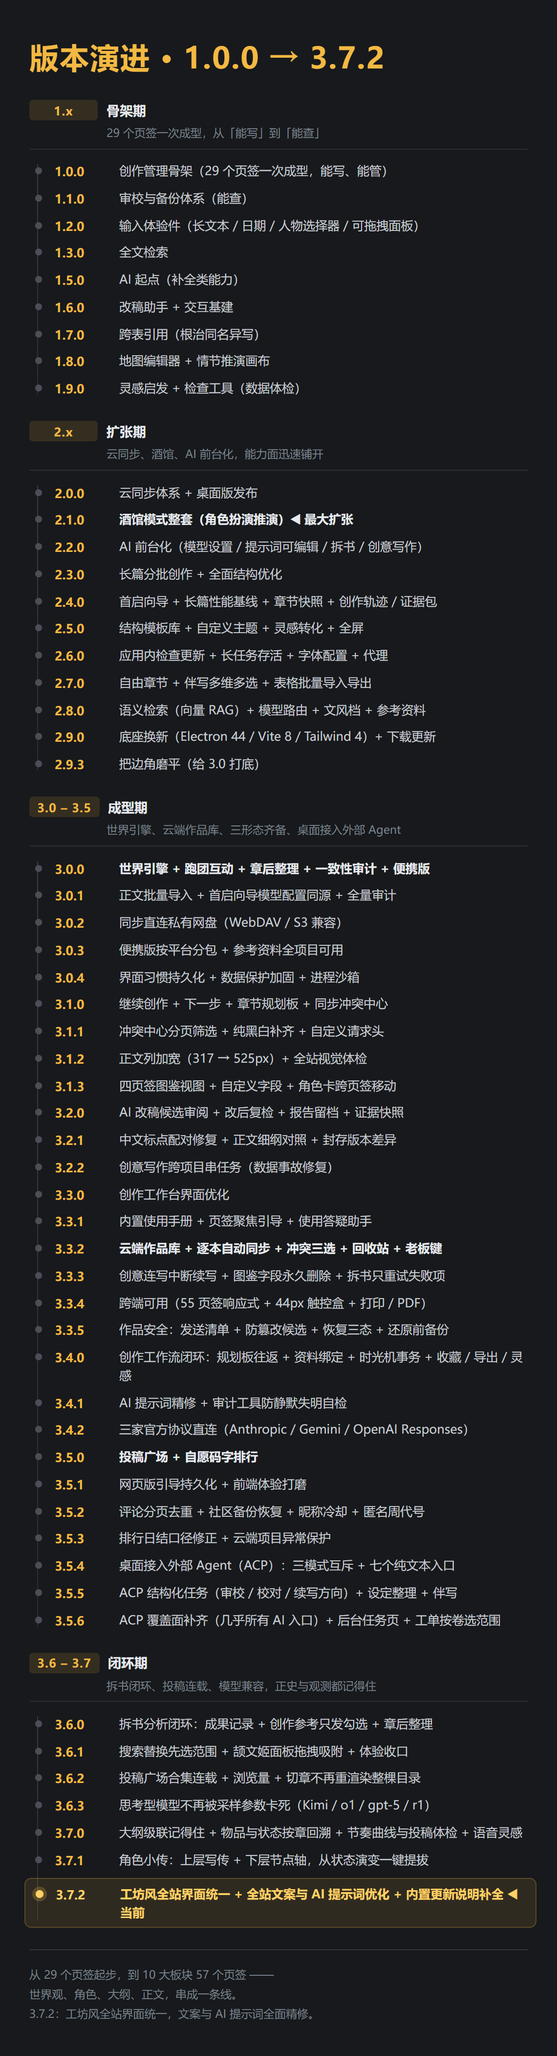
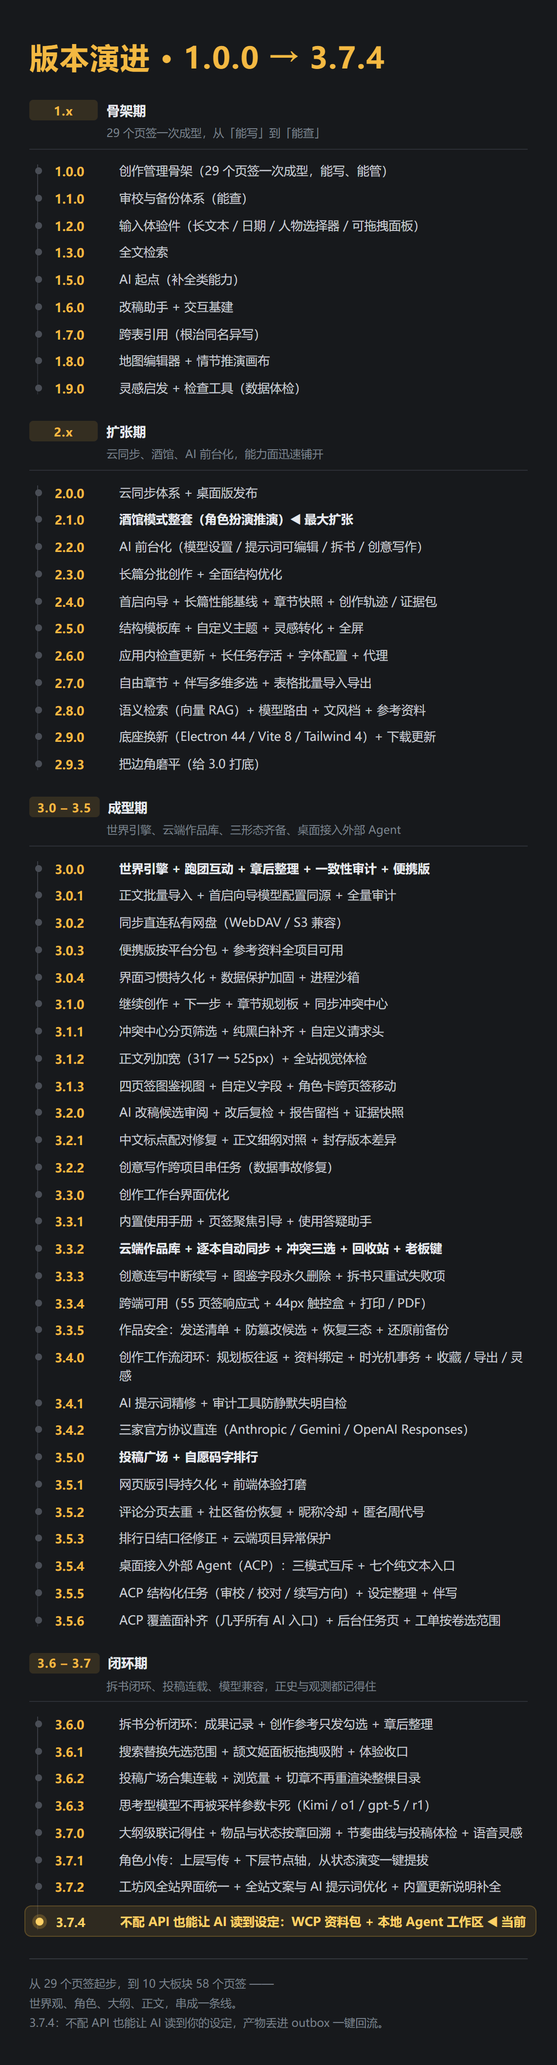
docs(3.7.4): 手册补 3.7.4 版本变化篇，版本变化篇统一出口，README/更新说明/配图升到 3.7.4
【软件内接收更新说明】（本次重点）
- 新增 `version-374.ts`（whats-new-374）：WCP 资料包三档、回流逐条勾选、桌面版本地
  Agent 工作区、outbox 回流、网页/便携降级 zip，以及首页重排与原子写；
- 新增 `version-index.ts` 的 `ALL_VERSION_NOTES` 作为**唯一出口**：registry（手册检索）
  与 AboutPage（「近期版本更新说明」弹窗）共用一份聚合，避免两处各拼一遍时漏篇；
- registry / AboutPage 同步改为读 ALL_VERSION_NOTES；`CONTENT_VERSION` 35 → 36。
- 探针核对：5 篇（370→371→372→373→374），关于页倒序展示 374 在最上。

【文档与配图】
- 新增 `docs/归档/3.7/3.7.4-更新说明-2026-11-26.md`（同时作 Release 正文），
  交代「3.7.3 未单独发布、内容随本版一并交付」；
- README：版本号 / 顶部主线 / 值得一提的设计 / 升级说明 / 版本演进表 +1 行 /
  本版重点整节换成 3.7.4（5 条 ⭐ + 验证 📌，写实 530/530 与未覆盖项）；
- 演进图 rows 补 3.7.2 与 3.7.4（3.7.3 未发布不加）、标题改 → 3.7.4、页脚改 58 页签。

门禁：tsc 0 / eslint 0 / 全量 **530/530** / release-check 源码 FAIL 0

diff --git a/src/lib/help/articles/version-374.ts b/src/lib/help/articles/version-374.ts
@@ -1,0 +1,80 @@
+// ============ 手册内容 · 3.7.4 版本变化（2026-11-26） ============
+//
+// 单独成文件，避免 version.ts 越过「纯字面量文件 200 行」的结构闸阈值。
+//
+// 🔴 版本关系：3.7.3（网页资料包 WCP）在开发期完成、**没有单独发过版**（无 tag），
+//    从 3.7.2 升上来的用户是在 3.7.4 一次性拿到两批能力。手册里 3.7.3 那篇（version-373.ts）
+//    已存在且照常展示，本篇只补 3.7.4 的增量，并在第一节交代「网页资料包随本版首次交付」。
+import type { HelpArticle } from '@/lib/help/types'
+
+export const VERSION_374_ARTICLES: HelpArticle[] = [
+  {
+    id: 'whats-new-374',
+    revision: 1,
+    title: '3.7.4：不用 API 也能让 AI 读到你的设定',
+    summary: '新增第 4 种接力模式 WCP：把设定、角色、细纲与前文打包给网页版 AI，回复粘回来逐条入库；桌面版还能把这套资料写成本地文件夹，交给 Claude Code / Cursor 这类本地 Agent 直接读。',
+    aliases: ['更新说明', '新功能', '3.7.4', 'WCP', '资料包', '本地工作区'],
+    keywords: ['3.7.4', 'WCP', '资料包', '本地工作区', 'outbox', '底包', '增量包', '双段输出', '网页模型', '本地 Agent'],
+    group: '快速开始',
+    tabIds: ['model-settings', 'editor', 'chapter-outline', 'check-tools', 'char-bio'],
+    availability: 'all',
+    aiRequirement: 'none',
+    sections: [
+      {
+        id: 'web-pack',
+        heading: '网页资料包：随本版首次交付（3.7.3 完成）',
+        body: [
+          '「模型设置 → 运行模式」在 API / MCP / ACP 之外多了第 4 个页签 **WCP**。它不占用后台在线模式：后台连着 ACP 或 API 时，WCP 页签照样能用，两者互不干扰。',
+          '资料包分三档：**底包**只装长期设定（作品概览、世界设定、势力地理、核心角色、人物关系、小传、写作规范、名词术语，外加文风与去 AI 味规则）；**增量包**装当前这一章要用的东西（细纲、前文摘要与末尾正文、本章草稿、出场角色当前状态、物品持有、未回收伏笔）；**完整包**是两者合并。',
+          '入口就在你要用的地方：正文工具栏「WCP 接力」、细纲页头「WCP 推演包」、检查工具页头「WCP 找茬包」（只找问题，不评分不排名）、角色小传页头「WCP 小传包」。它逐条怎么用，见手册里 3.7.3 那条说明。',
+        ],
+      },
+      {
+        id: 'paste-back',
+        heading: 'AI 的回复怎么拿回来',
+        body: [
+          '把 AI 的回复整段粘回「WCP 回流」：它按 `<<<WCP_BODY_START>>>` / `<<<WCP_CHANGES_START>>>` 切成「正文」与「变动摘要」两段，缺标记时会退化为按 `## 第一部分` / `## 变动摘要` 识别。',
+          '正文可以一键入章；变动摘要里的候选（伏笔、关系、状态、物品、小传）逐条勾选后才入库，走的是和章后整理同一套写入口 —— **只追加、不覆盖**，没登记的角色或物品不会凭空造出来。',
+          'AI 返回的 JSON 不完整时，正文部分不会丢：整段按正文保留，并给一个「换成 Markdown 清单」的开关重新解析。',
+        ],
+      },
+      {
+        id: 'local-workspace',
+        heading: '桌面版：写成本地文件夹给 Agent 读',
+        body: [
+          '桌面版多了一步：把这套资料按模块**写成一个个文件**放到本地目录（默认在数据文件同级的 `wcp-workspaces/<书名>-<项目号前6位>/`，可以自己改，也能一键恢复默认）。目录里有 `AGENTS.md`、`CLAUDE.md` 和 `manifest.json` 索引，Agent 按需读文件，不必把整包塞进对话，省上下文也少「中间遗忘」。',
+          '页面提供「复制启动提示词」，里面带着工作区的绝对路径，粘给 Claude Code、OpenAI Codex、Cursor、Windsurf、Antigravity、Cline 这类本地 Agent 就能开工。',
+          '工作区的保鲜：打开软件或打开项目时如果资料过期会提醒；也可以手动一键更新，或开定时刷新。更新**只覆写变化的文件**（临时文件写完再改名，不会让 Agent 读到半截），不留历史副本、不占额外备份空间，也绝不碰 `outbox/`。',
+          '如果要让 Agent 翻前文，可以打开「同步全书历史章节」（出厂关闭）——开了它会额外生成分卷分章的只读正文目录。',
+        ],
+      },
+      {
+        id: 'outbox',
+        heading: 'Agent 的产出怎么回来：outbox',
+        body: [
+          'Agent 把结果写成 `.wcp.json` 或 `.md` 丢进工作区的 `outbox/` 文件夹，回到软件点「扫描 outbox」就能一键核对入库。',
+          '成功导入的文件默认**成对移入 `outbox/imported/`** 归档，防止同一份结果被重复导入；不需要自动归档可以在设置里关掉。',
+        ],
+      },
+      {
+        id: 'fallback',
+        heading: '网页版 / 便携版怎么办',
+        body: [
+          '没有本地任意写盘权限的形态（网页版、便携版）会降级为**导出同样目录结构的 zip 工作区包**：解压后就是同一个文件夹结构，照样能交给本地 Agent 用，不需要 API Key。',
+        ],
+      },
+      {
+        id: 'fixes',
+        heading: '顺带改的',
+        body: [
+          '项目中心（首页）重新排过：常用入口与最近项目的位置更集中，窄窗口下也不挤。登录页与重置密码页恢复默认的护眼主题，不再跟随暗色。',
+          '数据写入改成原子写（先写临时文件、落盘成功再改名），中途失败不会留下半截文件；同时处理了一批审计提示级问题。',
+        ],
+      },
+    ],
+    related: ['wcp-relay'],
+    actions: [{ label: '打开模型设置', tabId: 'model-settings' }],
+    verifiedAgainst: '3.7.4',
+    reviewedAt: '2026-11-26',
+  },
+]

diff --git a/src/lib/help/registry.ts b/src/lib/help/registry.ts
@@ -23,7 +23,7 @@ import { TOOLS_ARTICLES } from '@/lib/help/articles/tools'
 import { TOOLS_EXTRA_ARTICLES } from '@/lib/help/articles/tools-extra'
 import { TAVERN_ARTICLES } from '@/lib/help/articles/tavern'
 import { MISC_PAGE_ARTICLES } from '@/lib/help/articles/misc-pages'
-import { VERSION_ARTICLES } from '@/lib/help/articles/version'
+import { ALL_VERSION_NOTES } from '@/lib/help/articles/version-index'
 import { AGENT_BACKEND_ARTICLES } from '@/lib/help/articles/agent-backend'
 import { PLOT_ARTICLES } from '@/lib/help/articles/plot'
 import { ARTEFACT_ARTICLES } from '@/lib/help/articles/artefacts'
@@ -32,7 +32,9 @@ import { WCP_ARTICLES } from '@/lib/help/articles/wcp'
 
 /** 整套内容的版本：正文、目录、索引必须同版本，否则来源引用不可信 */
 // 35（2026-11-26 · 3.7.4）：新增「本地 Agent 工作区（WCP-Local）」使用篇。
-export const CONTENT_VERSION = 35
+// 36（2026-11-26 · 3.7.4 发布）：新增 whats-new-374，并把版本变化篇统一从
+//   version-index.ts 出口 —— 手册与关于页共用一份聚合，避免两处各拼一遍时漏篇。
+export const CONTENT_VERSION = 36
 
 /** 这套内容核对时对应的软件版本 */
 export const SUPPORTED_APP_VERSION = '3.7.4'
@@ -40,7 +42,7 @@ export const SUPPORTED_APP_VERSION = '3.7.4'
 /** 全部文章。顺序即同一分组内的展示顺序 */
 export const HELP_ARTICLES: HelpArticle[] = [
   ...START_ARTICLES,
-  ...VERSION_ARTICLES,
+  ...ALL_VERSION_NOTES,
   ...WCP_ARTICLES,
   ...EDITOR_ARTICLES,
   ...COMMUNITY_ARTICLES,

diff --git a/src/components/app/AboutPage.tsx b/src/components/app/AboutPage.tsx
@@ -11,7 +11,7 @@ import HelpPopover from '@/components/common/HelpPopover'
 import { Modal } from '@/components/dialogs/Modal'
 import { PAGE_DESCRIPTION_CLASS, PAGE_HEADER_STICKY_CLASS, PAGE_TITLE_CLASS } from '@/components/common/PageHeader'
 import UpdateDialog from '@/components/app/UpdateDialog'
-import { VERSION_ARTICLES } from '@/lib/help/articles/version'
+import { ALL_VERSION_NOTES } from '@/lib/help/articles/version-index'
 import { QUARK_URL, QUARK_CODE, QUARK_TOKEN, GITEE_RELEASES_URL, WEB_APP_URL } from '@/lib/app/downloadLinks'
 import { checkUpdate, isAutoCheckOn, setAutoCheck, type LatestRelease } from '@/lib/app/versionCheck'
 import { PORTABLE } from '@/lib/storage/fileBackend'
@@ -121,7 +121,7 @@ export default function AboutPage() {
       <UpdateDialog open={dialogOpen} latest={result?.latest ?? null} onClose={() => setDialogOpen(false)} />
       <Modal open={notesOpen} onClose={() => setNotesOpen(false)} title="近期版本更新说明" width="lg">
         <div className="space-y-4">
-          {[...VERSION_ARTICLES].reverse().map(art => (
+          {[...ALL_VERSION_NOTES].reverse().map(art => (
             <section key={art.id} className="rounded-xl border border-ink-700/75 bg-ink-850/90 p-4 space-y-2.5">
               <div className="flex flex-wrap items-center gap-2">
                 <h3 className="text-13 font-semibold text-ink-100">{art.title}</h3>

diff --git a/src/lib/help/articles/version-index.ts b/src/lib/help/articles/version-index.ts
@@ -1,0 +1,22 @@
+// 版本变化篇的聚合出口（2026-11-26 · 3.7.4）
+//
+// 🔴 为什么要有这个文件：版本变化内容按「一版一文件」拆（`version.ts` 已接近纯字面量
+//    200 行闸，再加就超），而**消费方有两处、口径必须一致**：
+//      · `registry.ts` → 拼进 HELP_ARTICLES，手册能搜到；
+//      · `AboutPage.tsx` → 「近期版本更新说明」弹窗按这个顺序倒序展示。
+//    两处各自去拼 `version.ts` + `version-373.ts` + `version-374.ts` 迟早漏一个
+//    （3.7.3 当时就是在两处消费方之间差点脱节），所以统一从这里出口，以后加新版只改这一处。
+import type { HelpArticle } from '@/lib/help/types'
+import { VERSION_ARTICLES } from '@/lib/help/articles/version'
+import { VERSION_374_ARTICLES } from '@/lib/help/articles/version-374'
+
+/**
+ * 全部版本变化篇（按版本号升序）。
+ *
+ * `VERSION_ARTICLES` 内部已含 `VERSION_373_ARTICLES`（version.ts 末尾拼接），
+ * 这里不再重复列 3.7.3，只在其后追加 3.7.4。
+ */
+export const ALL_VERSION_NOTES: HelpArticle[] = [
+  ...VERSION_ARTICLES,
+  ...VERSION_374_ARTICLES,
+]

diff --git a/README.md b/README.md
@@ -6,14 +6,15 @@
 
 **把世界观、角色、大纲、正文串成一条线的长篇创作工作台**
 
-桌面版（Windows）｜ 便携版（U 盘即走）｜ **网页版**（浏览器直接用） ｜ 当前源码版本 `v3.7.2`
+桌面版（Windows）｜ 便携版（U 盘即走）｜ **网页版**（浏览器直接用） ｜ 当前源码版本 `v3.7.4`
 
 📦 仓库：[Gitee](https://gitee.com/tgxy2026/youth-fantasy-engine)　｜　[GitHub](https://github.com/tgxy2026/youth-fantasy-engine)　｜　⬇ 下载：[Gitee Releases](https://gitee.com/tgxy2026/youth-fantasy-engine/releases)　｜　[GitHub Releases](https://github.com/tgxy2026/youth-fantasy-engine/releases)
 
 🖥 三种形态：**桌面安装版**（免 Node，双击安装）　｜　**便携版**（U 盘即走，需 Node.js）　｜　**网页版**（免安装，游客本地存 / 登录账号云端存）
 🌐 网页版直达：<https://youth-fantasy-engine.online>（浏览器打开就能写，不用装任何东西）
 🔗 3.3.2 起：**同一个账号，桌面、网页、换台电脑，接着上一句写**（云端作品库 · 逐本自动同步 · 冲突由你选 · 删了能捞回）
-📌 3.7.2：**工坊风全站界面统一**（三形态暗黑曜石视觉 · 48px 顶栏对齐 · 左下角自适应设置浮窗）· **全站文案与 AI 提示词精修** · **软件内补全 3.7.x 更新说明**
+📌 3.7.4：**不用 API 也能让 AI 读到你的设定**（WCP 资料包分底包 / 增量包 / 完整包，打包给网页版 AI；桌面版还能写成本地工作区，交给 Claude Code、Cursor 这类本地 Agent 直接读，产物丢进 outbox 一键回流）
+📌 3.7.2 起：**工坊风全站界面统一**（三形态暗黑曜石视觉 · 48px 顶栏对齐 · 左下角自适应设置浮窗）· **全站文案与 AI 提示词精修** · **软件内补全 3.7.x 更新说明**
 📌 3.7.1 起：**给人物单开一页小传**（上层写传记 · 下层排节点轴 · 从状态演变一键提拔 · AI 整理只追加不覆盖）
 📌 3.7.0 起：**大纲改了系统记得住**（未来章待重审 · 已写章只列建议 · 候选主动过期）· **物品与状态按章回溯** · **节奏曲线与投稿体检**（只摆事实，不评分）· **语音灵感**（需自备 OpenAI 兼容转写服务）
 
@@ -92,6 +93,7 @@
 - **一键拆书** —— 丢一本参考书进去，自动抽取人物、关系、设定，做成你自己的素材库。
 - **酒馆模式** —— 让 AI 扮演你书里的角色跟你对话、推演剧情，用来找感觉、验人设。
 - **伴写建议** —— 正文编辑时给出「下一句可以怎么写」的建议，你采纳或忽略，它不会替你写。
+- **不配 API 也能让 AI 读到你的设定**（3.7.4）—— WCP 模式把底包 / 增量包 / 完整包打包给网页版 AI，回复粘回来逐条勾选入库；桌面版还能把这套资料写成本地工作区，Claude Code、Cursor 这类本地 Agent 按文件读，产物丢进 `outbox/` 一键回流。
 - **工坊风工作台界面**（3.7.2）—— 左侧图标轨 + 可收起目录侧栏 + 48px 顶栏横线统一对齐，左下角设置面板从左往右弹出且自适应不越界，网页登录页与全站 58 个页签保持一致视觉层级。
 - **角色小传，一个人一页**（3.7.1）—— 上层写完整传记、下层按「前传 / 第 N 章」排节点，带章号的节点能跳回原文；已有的状态演变可以一键提拔成节点，AI 整理只追加、不覆盖。
 - **大纲改了，后面会提醒你**（3.7.0）—— 总纲 / 卷纲 / 细纲改动后，未开写的章纲打「待重审」并附改前改后片段；已写章只列建议复核，系统不动你的章纲。
@@ -184,7 +186,7 @@ npm run build:desktop  # 产物输出到 release/ 目录
 
 ## 升级与数据迁移
 
-### 当前版本（3.4.x – 3.7.1 → 3.7.2）：直接覆盖安装
+### 当前版本（3.4.x – 3.7.2 → 3.7.4）：直接覆盖安装
 
 - **桌面安装版**：直接覆盖安装。程序数据在独立目录（`%APPDATA%\youth-fantasy-engine`），不会被安装包覆盖；
 - **便携版**：解压新包后，把旧包的 `data/` 目录整体拷进新包同级位置；
@@ -192,9 +194,9 @@ npm run build:desktop  # 产物输出到 release/ 目录
 
 3.4.0 起的章节收藏集、导出方案、命名快照都带旧数据默认值；3.4.1 只改提示词文本与审计工具，没有数据结构变更；3.4.2 的 `protocol` 是**可选字段**，旧模型配置读进来按原 `type` 自动补默认值。3.5.x 同样没有破坏性结构变更：3.5.0 的投稿广场与码字排行是**新增**能力（便携版不启用），3.5.1 只改前端引导与版式，3.5.2 的昵称冷却时间戳与 3.5.3 的排行日结口径只影响服务端记录，3.5.4–3.5.6 的 ACP 配置是按适配器**新写入**的独立设置。
 
-3.6.x 与 3.7.x 也是覆盖安装即可：3.6.0 的成果记录、拆书范围说明属于新增字段（指向不存在章节的成果会标 `missing` 并降为草稿，不静默丢弃）；3.6.1 起搜索替换、颉文姬面板位置都是界面层改动；3.6.2 的投稿合集与浏览量、3.6.3 的思考型模型采样参数处理只影响请求与展示；**3.7.0 的大纲级联标记、物品流转账本、状态演变记录、节奏指标与投稿体检结果都是新增存储**，旧项目打开时按需创建，读不到就按空处理、不会写坏原有内容；3.7.1 的角色小传与 3.7.2 的工坊风全站重构、文案与提示词精修均不改变原有存储格式。
+3.6.x 与 3.7.x 也是覆盖安装即可：3.6.0 的成果记录、拆书范围说明属于新增字段（指向不存在章节的成果会标 `missing` 并降为草稿，不静默丢弃）；3.6.1 起搜索替换、颉文姬面板位置都是界面层改动；3.6.2 的投稿合集与浏览量、3.6.3 的思考型模型采样参数处理只影响请求与展示；**3.7.0 的大纲级联标记、物品流转账本、状态演变记录、节奏指标与投稿体检结果都是新增存储**，旧项目打开时按需创建，读不到就按空处理、不会写坏原有内容；3.7.1 的角色小传与 3.7.2 的工坊风全站重构、文案与提示词精修均不改变原有存储格式；**3.7.4 的 WCP 设置与本地工作区也是新增**：全局偏好在 `meta`、单项目状态在 `settingsKV`，读不到就回退出厂默认，工作区文件夹是独立目录（默认在数据目录同级 `wcp-workspaces/`），不写进项目库。
 
-整体上从 3.4.x 升级到 3.7.2 属于覆盖安装即可，回退时旧版本读不懂的新字段只会被忽略，不会导致打不开。
+整体上从 3.4.x 升级到 3.7.4 属于覆盖安装即可，回退时旧版本读不懂的新字段只会被忽略，不会导致打不开。
 
 ### 历史迁移：2.x → 3.0.0（改名与数据目录）
 
@@ -423,14 +425,16 @@ youth-fantasy-engine/
 | **3.7.0** | **正史变了，系统记得住**：**大纲改动 → 未来章待重审**（附「改前 → 改后」引用片段，核对完点「已处理」；系统不改你的章纲）+ **已写章只列建议** + **候选 / 报告主动过期**（正文、细纲、本章固定资料任一变化就标「已过期」并写原因，只提示不自动改卡）+ **物品流转账本**（必须带正文原句才能勾选写入，图鉴物品新增「流转记录」）+ **状态演变按章回溯**（旧值留痕，`stateAt` 回溯到第 N 章）+ **全书逐章节奏曲线**（字数 / 对话占比 / 段长 / 距上个爽点，不合成总分、不排名次）+ **投稿体检一页**（汇总已跑过的结论，没跑过的写「未跑」，可存 JSON）+ **语音灵感**（需自备 OpenAI 兼容 `/audio/transcriptions`，音频不留存）+ EPUB 导出含未分卷章节 + 页签页头统一。⚠ 语音转写真机仍需你自备可用 Key。详见 [3.7.0 更新说明](docs/归档/3.7/3.7.0-更新说明-2026-11-23.md)。 |
 | **3.7.1** | **给人物单开一页小传**：角色管理下新增「**角色小传**」页签（默认勾选，可在项目设置里取消）—— 上层小传正文随便分段，下层「重要节点事件轴」分「开篇前（前传）」与「正文第 N 章」，前传节点可手动调序、带章号节点按章号升序且能点「原文」跳回那一章；已有 **3.7.0 状态演变可零消耗提拔**成节点，AI 从正文整理 / 颉文姬「整理」抽出里程碑候选**只追加不覆盖**，AI 起草与续写只出预览，单角色可导出 Markdown；**图鉴详情面板可直接编辑跨表与角色关联**、保密等级每个选项补了说明；角色小传与角色关系的布局与按钮规范统一（带文字按钮不再用幽灵样式）、节点类型支持自定义、示范项目补齐 11 名角色小传；修掉角色卡跳转与选择逻辑、按别称搜索时与小传条目对不上且折叠状态错乱。**数据格式没有变化**，覆盖安装即可。详见 [3.7.1 更新说明](docs/归档/3.7/3.7.1-更新说明-2026-11-25.md)。 |
 | **3.7.2** | **工坊风全站界面统一 + 全项目文案与内置 AI 提示词精修 + 软件内更新说明补全**：三形态（桌面 / 便携 / 网页）包括网页版登录 / 重置密码页全面接入暗黑曜石工坊风体系；左侧图标轨、可收起目录侧栏与编辑区顶部横线齐平到 `48px` 基准；左下角「界面与数据」设置窗改为从左往右弹出且宽度自适应不越界；「关于打赏」改为对称铺满布局；统一全站 57 页签页头按钮高度与对比度并完成多缩放比例复核；全面纠偏与润色全站 UI 文案，并结合当前实践升级去 AI 味、校对、审计、颉文姬、改写、角色小传等核心内置 AI 提示词；补全软件内 3.7.0 / 3.7.1 / 3.7.2 版本更新说明；六维 + 全量审计修掉 `foldVh`、`variant="bare"` 与入口探针。**数据格式没有变化**，覆盖安装即可。详见 [3.7.2 更新说明](docs/归档/3.7/3.7.2-更新说明-2026-11-25.md)。 |
+| **3.7.4** | **不配 API 也能让 AI 读到你的设定**（含未单独发布的 3.7.3 网页资料包）：模型设置新增第 4 种 **WCP 模式**，**不占用后台在线模式**、与 API / MCP / ACP 并存互不干扰；资料包分三档 —— **底包**（长期设定 + 文风与去 AI 味规则）、**增量包**（本章细纲、前文摘要与末尾正文、本章草稿、出场角色当前状态、物品持有、未回收伏笔）、**完整包**（两者合并）；四个就近入口：正文工具栏「WCP 接力」、细纲页头「WCP 推演包」、检查工具「WCP 找茬包」（只找问题，不评分不排名）、角色小传「WCP 小传包」。回复整段粘回按双段标记切成「正文 + 变动摘要」，正文可一键入章、变动**逐条勾选后入库且只追加不覆盖**，JSON 不完整时正文不丢并可切 Markdown 清单重解析。**桌面版**还能把同一套资料**写成本地工作区**（默认数据目录同级 `wcp-workspaces/<书名>-<项目号前6位>/`，含 `AGENTS.md` / `CLAUDE.md` / `manifest.json`），提供带绝对路径的「复制启动提示词」，Claude Code、Codex、Cursor、Windsurf、Antigravity、Cline 等本地 Agent 按文件读取；支持过期提醒、定时刷新与手动一键更新（**只覆写变化文件、原子写、不留历史副本、不碰 `outbox/`**），Agent 产物写进 `outbox/` 可一键核对入库并自动归档；**网页版 / 便携版**降级为导出同结构 zip 工作区包。另含项目中心首页重排、登录与重置密码页恢复护眼主题、数据写入改原子写。**数据格式没有变化**，覆盖安装即可。详见 [3.7.4 更新说明](docs/归档/3.7/3.7.4-更新说明-2026-11-26.md)。 |
 
-### 3.7.2 本版重点（工坊风全站统一 · 文案与提示词精修 · 内置更新说明补全）
+### 3.7.4 本版重点（不配 API 也能让 AI 读到设定 · 本地 Agent 工作区 · 只追加不覆盖）
 
-- ⭐ **工坊风全站界面统一**：项目中心、58 个创作页签与网页版登录 / 重置密码页全面对齐暗黑曜石工坊风；图标轨、侧栏与正文编辑区顶栏横线齐平在 `48px` 高度；左下角设置改为从左往右弹出并自适应侧栏宽度不越界；「关于打赏」页改对称铺满，全站页头按钮尺寸与视觉对比度统一收口。
-- ⭐ **全项目文案与内置 AI 提示词升级**：清理全站过时页签数量、版本描述与冗余措辞；升级去 AI 味、校对、一致性审计、颉文姬、改写与角色小传等内置提示词，兼顾可落地性与上下文约束，同时严格不破坏既有 JSON 输出结构。
-- ⭐ **软件内补全 3.7.x 更新说明**：将 3.7.0 / 3.7.1 / 3.7.2 版本改动摘要接入内置更新指引、关于页与更新提示弹窗，软件内直接可见版本演变细节。
-- ⭐ **质量审计与多比例复核**：全站验证不同窗口尺寸与缩放比例下的展示表现，完成六维 + 全量审计并修掉侧栏视口折算（`foldVh`）、5 处带文字按钮改用 `variant="bare"`，同步更新工作台入口探针。
-- 📌 **验证与边界**：类型检查 0、lint 0、全量单测 **524/524**、六维 + 全量审计 `complete`（0 候选 / 26 项工具自检通过 / 11 项运行证据全过）、红线 11–15 全部 0、结构化提示词输出约束 P4 **0/42**；发版产物一致性校验见发布记录。**未覆盖**：语音转写真机链路仍需你自备可用 Key；真实模型长篇盲评与超长人物传记未做压测。
+- ⭐ **第 4 种接力模式：WCP 网页资料包**：「模型设置 → 运行模式」在 API / MCP / ACP 之外多了 WCP 页签。它**不占用后台在线模式**，后台连着 ACP 或 API 时照样能用。资料包分三档 —— **底包**（作品概览、世界设定、势力地理、核心角色、人物关系、小传、写作规范、名词术语，外加文风与去 AI 味规则）、**增量包**（本章细纲、前文摘要与末尾正文、本章草稿、出场角色当前状态、物品持有与流转、未回收伏笔）、**完整包**（两者合并）。入口就在手边：正文工具栏「WCP 接力」、细纲页头「WCP 推演包」、检查工具「WCP 找茬包」（只找问题，不评分不排名）、角色小传「WCP 小传包」。
+- ⭐ **回复怎么拿回来**：整段粘回「WCP 回流」，按 `<<<WCP_BODY_START>>>` / `<<<WCP_CHANGES_START>>>` 切成「正文」与「变动摘要」（缺标记时按 `## 第一部分` / `## 变动摘要` 退化识别）。正文可一键入章；变动里的伏笔、关系、状态、物品、小传候选**逐条勾选后才入库**，走章后整理同一套写入口：**只追加、不覆盖**，没登记的角色或物品不会凭空造出来。AI 返回的 JSON 不完整时**正文不会丢**，并可切「Markdown 清单」重解析。
+- ⭐ **桌面版：写成给本地 Agent 读的工作区**：把这套资料按模块写成一个个文件（默认在数据文件同级 `wcp-workspaces/<书名>-<项目号前6位>/`，可自定义、可一键恢复默认），目录里有 `AGENTS.md`、`CLAUDE.md` 与 `manifest.json` 索引，Agent 按需读文件、不必整包塞进对话；页面提供带绝对路径的「复制启动提示词」，粘给 Claude Code、OpenAI Codex、Cursor、Windsurf、Antigravity、Cline 就能开工。工作区支持打开时过期提醒、定时刷新与手动一键更新 —— **只覆写变化文件（先写临时文件、落盘成功再改名），不留历史副本、不占额外备份，也绝不碰 `outbox/`**。
+- ⭐ **产物回流与降级**：Agent 把结果写成 `.wcp.json` 或 `.md` 丢进 `outbox/`，软件「扫描 outbox」一键核对入库，成功导入的文件默认成对移入 `outbox/imported/` 防重复（可关）。**网页版 / 便携版**没有本地写盘权限时，降级为导出**同样目录结构的 zip 工作区包**，解压后结构一致、照样能给本地 Agent 用。
+- ⭐ **顺带改的**：项目中心（首页）重新排过，常用入口与最近项目更集中、窄窗口不挤；登录页与重置密码页恢复默认护眼主题；数据写入改原子写（避免留下半截文件）；处理一批审计提示级问题。
+- 📌 **验证与边界**：类型检查与 lint 通过、全量单测 **530/530**、六维 + 全量审计 `complete`（本轮审计提示级问题已处理）。**未覆盖 / 如实说明**：本地 Agent 只按常规文件读取方式验过，**没有覆盖清单里所有 Agent**；工作区放在云同步盘时的跨设备并发写入未压测；zip 工作区包是降级方案，需你自己解压；WCP 资料包质量取决于项目里已有内容的完整度 —— 设定没填的地方，包里就是空的。
 
 **更早版本的重点**：3.3.5 – 3.5.2 见 [`docs/归档/3.5/README-历史版本说明-归档-3.3.5-3.5.2.md`](docs/归档/3.5/README-历史版本说明-归档-3.3.5-3.5.2.md)，2.3.0 – 3.3.4 见 [`docs/归档/3.4/README-历史版本说明-归档.md`](docs/归档/3.4/README-历史版本说明-归档.md)（均为一字未改的原文）。
 

diff --git a/docs/归档/3.7/3.7.4-更新说明-2026-11-26.md b/docs/归档/3.7/3.7.4-更新说明-2026-11-26.md
@@ -1,0 +1,54 @@
+# 青春幻想引擎 3.7.4 更新说明（2026-11-26）
+
+> 从 3.7.2 直接升级，覆盖安装即可。**数据格式没有变化**。
+> 本版包含开发期完成的 3.7.3（网页资料包）—— 3.7.3 没有单独发过版，从 3.7.2 升上来会一次拿到两批能力。
+
+## 一、第 4 种接力模式：网页资料包（WCP）
+
+「模型设置 → 运行模式」在 API / MCP / ACP 之外多了第 4 个页签 **WCP**。
+
+- **不占用后台在线模式**：后台连着 ACP 或 API 时，WCP 页签照样能用，两者互不干扰。
+- **三档资料包**：
+  - **底包** —— 只装长期设定：作品概览、世界设定、势力地理、核心角色、人物关系、人物小传、写作规范、名词术语，外加文风与去 AI 味规则；
+  - **增量包** —— 当前这一章要用的：本章细纲、前文摘要与末尾正文、本章草稿、出场角色当前状态、物品持有与流转、未回收伏笔；
+  - **完整包** —— 两者合并，同 id 段以增量快照为准。
+- **入口就在手边**：正文工具栏「WCP 接力」、细纲页头「WCP 推演包」、检查工具页头「WCP 找茬包」（只找问题，不评分、不排名）、角色小传页头「WCP 小传包」。
+
+### 回复怎么拿回来
+
+- 整段粘回「WCP 回流」，它按 `<<<WCP_BODY_START>>>` / `<<<WCP_CHANGES_START>>>` 切成「正文」与「变动摘要」；缺标记时退化为按 `## 第一部分` / `## 变动摘要` 识别。
+- 正文可一键入章；变动里的候选（伏笔、关系、状态、物品、小传）**逐条勾选后才入库**，走章后整理同一套写入口：**只追加、不覆盖**，没登记的角色或物品不会凭空造出来。
+- AI 返回的 JSON 不完整时**正文不会丢**：整段按正文保留，并提供「换成 Markdown 清单」开关重新解析。
+
+## 二、桌面版：把资料写成本地 Agent 工作区（WCP-Local）
+
+桌面版多一步：把这套资料按模块**写成一个个文件**落到本地目录，交给具备文件读写能力的本地 Agent（Claude Code、OpenAI Codex、Cursor、Windsurf、Antigravity、Cline 等）。
+
+- **放在哪**：默认数据文件同级的 `wcp-workspaces/<书名>-<项目号前6位>/`，可在设置里改，也能一键恢复默认。写入前会做可写探活，遇到只读目录会提示改选。
+- **怎么读**：目录里有 `AGENTS.md`、`CLAUDE.md` 与 `manifest.json` 索引，Agent 按需读文件 —— 不用把整包塞进对话，省上下文也少「中间遗忘」。
+- **怎么开工**：页面有「复制启动提示词」，里面带工作区绝对路径，粘给 Agent 即可。
+- **怎么保鲜**：打开软件 / 打开项目时若资料过期会提醒；支持手动一键更新与定时刷新。更新**只覆写变化的文件**（先写临时文件、落盘成功再改名，Agent 不会读到半截），**不留历史副本、不占额外备份空间，也绝不碰 `outbox/`**。
+- **可选**：打开「同步全书历史章节」（出厂关闭）后，额外生成分卷分章的只读正文目录，供大上下文窗口的 Agent 自主翻查前文。
+
+## 三、产物回流：outbox 文件夹
+
+- Agent 把结果写成 `.wcp.json` 或 `.md` 丢进工作区的 `outbox/`，回到软件点「扫描 outbox」一键核对入库。
+- 成功导入的文件默认**成对移入 `outbox/imported/`** 归档，防止同一份结果被重复导入（可在设置里关掉自动归档）。
+
+## 四、网页版 / 便携版
+
+没有本地任意写盘权限时，降级为**导出同样目录结构的 zip 工作区包** —— 解压后结构一致，照样能交给本地 Agent 用，不需要任何 API Key。
+
+## 五、顺带改的
+
+- **项目中心（首页）重新排过**：常用入口与最近项目的位置更集中，窄窗口下不挤。登录页与重置密码页恢复默认护眼主题，不再跟随暗色。
+- **数据写入改原子写**：先写临时文件、落盘成功再改名，中途失败不会留下半截文件。
+- 处理了一批审计提示级问题。
+
+## 验证与边界
+
+- 类型检查 0、lint 0、全量单测通过、六维 + 全量审计 `complete`（本轮审计提示级问题已处理）。
+- **未覆盖 / 如实说明**：
+  - 本地 Agent 工作区的实机联动只在本机按 Claude Code / Cursor 一类的常规读取方式验过，**没有覆盖所有列出的 Agent**；工作区路径若放在云同步盘，跨设备并发写入的行为未做压测。
+  - 网页版 / 便携版的 zip 工作区包是**降级方案**，需要你自己解压后交给 Agent，软件不代劳。
+  - WCP 的资料包质量取决于项目里已有内容的完整度：设定没填的地方，包里就是空的。
